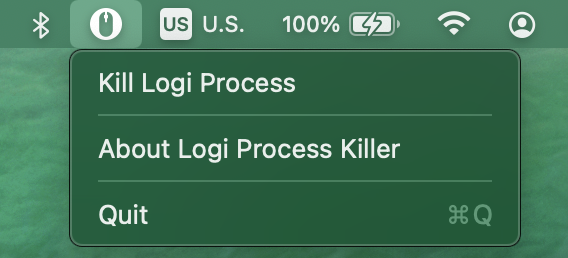
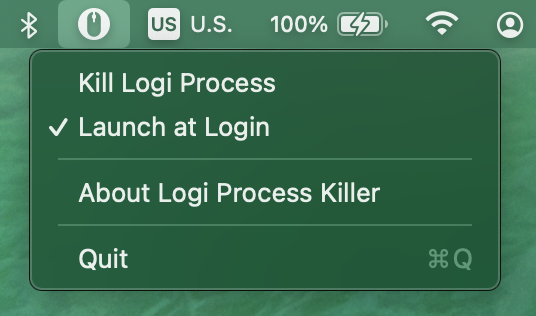
feat: add launch at login, update readme

diff --git a/Logi Process Killer/ApplicationMenu.swift b/Logi Process Killer/ApplicationMenu.swift
@@ -8,10 +8,12 @@
 import Foundation
 import SwiftUI
 import UserNotifications
+import LaunchAtLogin
 
 class ApplicationMenu: NSObject {
     
     let menu = NSMenu()
+    private var loginItem: NSMenuItem!
     
     func createMenu() -> NSMenu {
         
@@ -22,6 +24,19 @@ class ApplicationMenu: NSObject {
         )
         killProcessMenuItem.target = self
         menu.addItem(killProcessMenuItem)
+        
+        
+        let launchMenuItem = NSMenuItem(
+            title: "Launch at Login",
+            action: #selector(toggleLaunchAtLogin),
+            keyEquivalent: ""
+        )
+        launchMenuItem.target = self
+        launchMenuItem.state = LaunchAtLogin.isEnabled ? .on : .off
+
+        menu.addItem(launchMenuItem)
+        
+        self.loginItem = launchMenuItem
         
         menu.addItem(NSMenuItem.separator())
         
@@ -108,5 +123,14 @@ class ApplicationMenu: NSObject {
     
     @objc func quit(sender: NSMenuItem) {
         NSApp.terminate(self)
+    }
+    
+    @objc private func toggleLaunchAtLogin(_ sender: NSMenuItem) {
+        LaunchAtLogin.isEnabled.toggle()
+        sender.state = LaunchAtLogin.isEnabled ? .on : .off
+    }
+
+    func menuWillOpen(_ menu: NSMenu) {
+        loginItem.state = LaunchAtLogin.isEnabled ? .on : .off
     }
 }

diff --git a/README.md b/README.md
@@ -8,9 +8,17 @@
 
 Everytime when I switch my MX master from my work laptop to my MacBook, or when I wake my MacBook from sleep mode, somehow the mapped keys are not working anymore.
 
-Forward/Backward buttons are not working, predefined mouse gestures are not recognized.
+<p align="center">
+  <img src="./images/logi-options.png" alt="Description of image" width="500">
+</p>
+
+Forward/backward buttons are not working, predefined mouse gestures are not recognized.
 
 I would have to go in Activity Monitor, type and search the process, kill it, to make it to work again, which is easy but it is just annoying to deal with every time.
+
+<p align="center">
+  <img src="./images/logi-options-daemon.png" alt="Description of image" width="500">
+</p>
 
 As a developer, why don't make it easier? Place a button where I can always access it and kill it with 1 click, no more opening Activity Monitor, no more typing and searching for the same process every time.
 
@@ -18,11 +26,40 @@ Just 1 click to kill.
 
 Automate it whenever possible, otherwise, time is wasted.
 
-## Implementation
+## Description
 
-I created a menu bar application so that it can be accessed easily.
+macOS: 12.3+
+
+I created a menu bar application so that it can be accessed and kill the `Logi Options Daemon` process easily.
+
+<p align="center">
+  <img src="./images/logi-options-daemon-activity-monitor.png" alt="Description of image" width="500">
+</p>
+
+This Logi Process Killer is to kill the Daemon of `Logi Options`
+
+> [`Logi Options`](https://www.logitech.com/en-hk/software/options.html) a powerful and easy-to-use application that enhances your Logitech mice, keyboards, and touchpads. Customize your device with Options to achieve more, faster. <p align="center"> > <img src="./images/logi-options-logo.png" alt="Description of image" width="50">
+
+</p>
+
+Why do I not need to launch the `Logi Options Daemon` again? Because it will automatically boot up itself after being killed
 
 <p align="center">
   <img src="./images/menubar-screenshot.png" alt="Description of image" width="500">
 </p>
-It got 1 simple function: to kill the process, a notification will appear to inform the user whether the process has successfully killed or not
+Features
+
+- Kill `Logi Options Daemon` - a notification will appear to inform the user whether the process has successfully killed or not
+- Launch at Login - everytime you restart, you won't need to launch it manually
+
+### Success notification
+
+<p align="center">
+  <img src="./images/success-terminate.png" alt="Description of image" width="500">
+</p>
+
+### Fail notification
+
+<p align="center">
+  <img src="./images/fail-terminate.png" alt="Description of image" width="500">
+</p>
